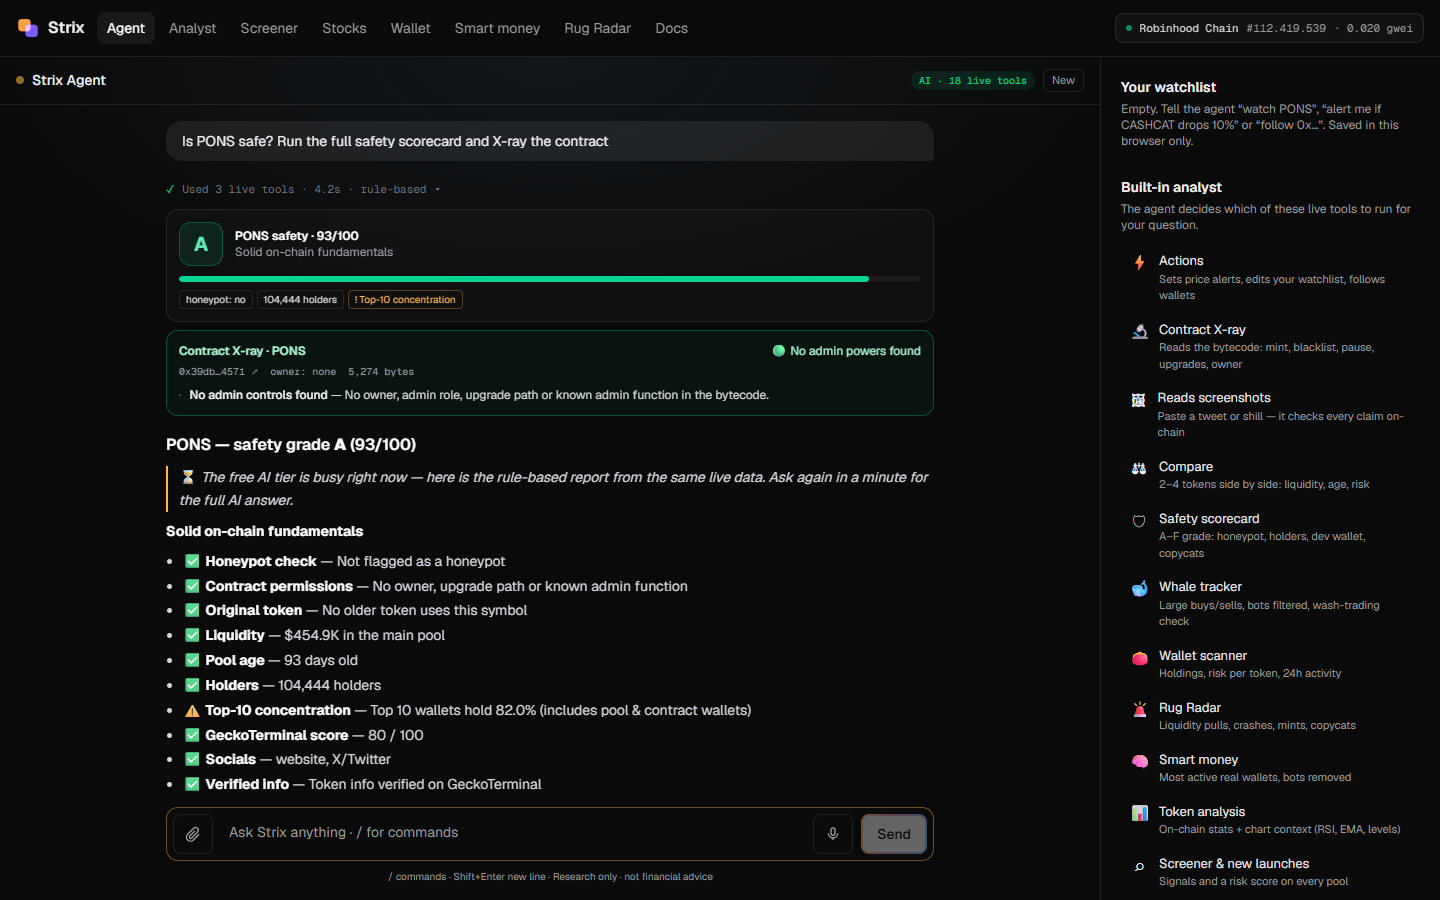
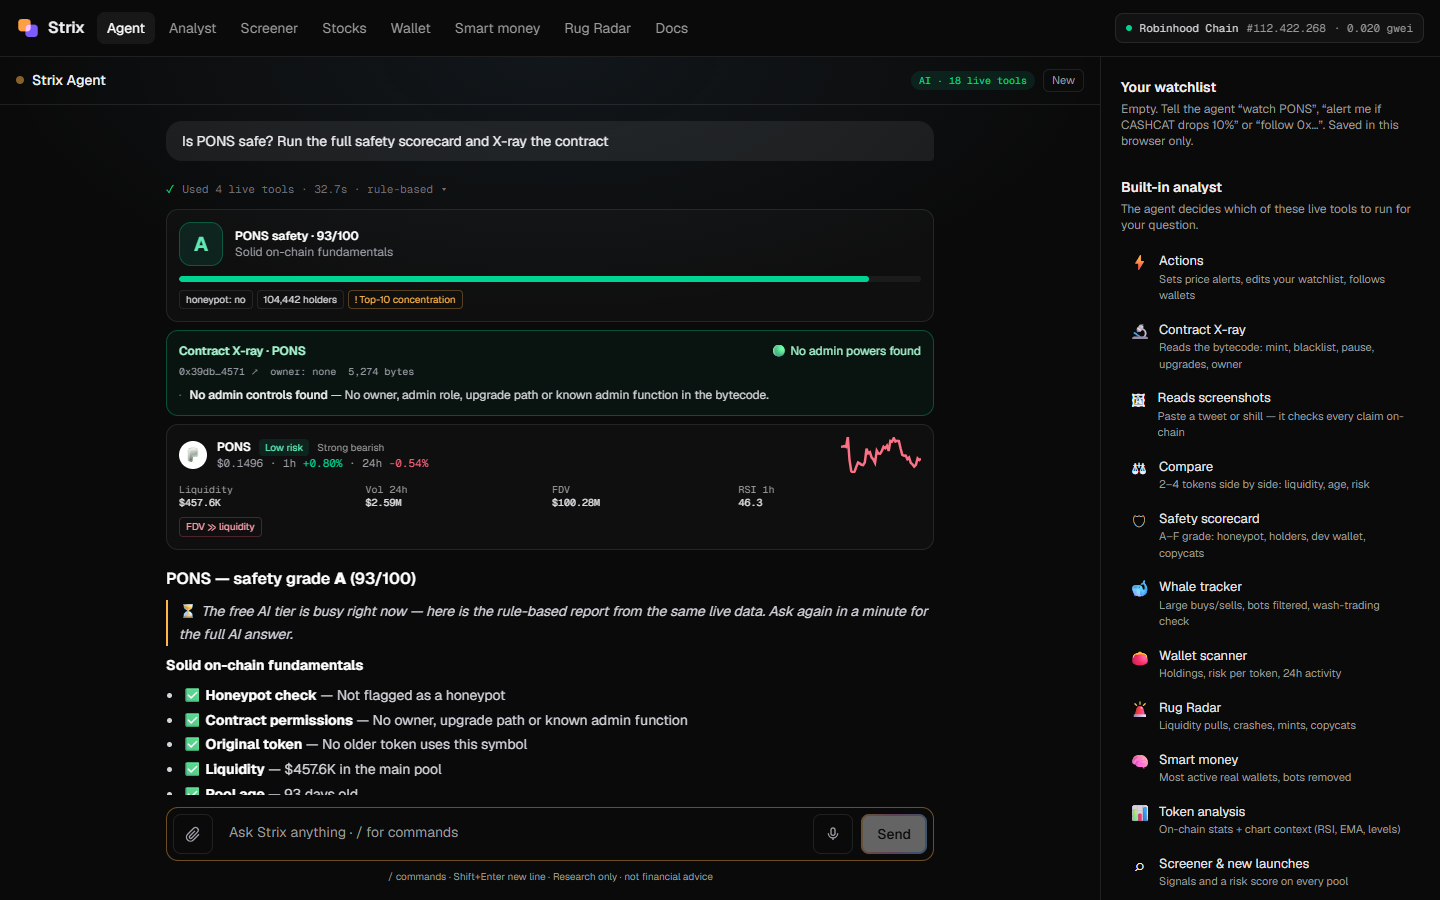
Fix AI failover to Gemini and the rule-based report
- Gemini rejected conversations where an earlier tool call came from
  another model (no thought signature), so the backup AI never worked
  after Groq failed mid-answer. Those calls now carry Google's documented
  placeholder signature.
- The "switching provider" step now says why (rate limited, access
  denied, invalid key, timeout).
- Rule-based token report crashed reading macd.hist; it now uses the
  tool's macdHist field.

Changed region(s): [[0.0938, 0.4667, 0.6562, 0.9022], [0.2188, 0.1867, 0.2812, 0.2178]]

diff --git a/lib/agent.ts b/lib/agent.ts
@@ -621,7 +621,7 @@ const compact = (data: unknown) =>
  * Try each provider in order. A rate-limited primary hands over to the backup immediately
  * (no waiting); only the last provider waits out a short 429 before giving up.
  */
-async function chatAny(providers: LLM[], messages: Msg[], onWait: (s: number) => void, onSwitch: (to: string) => void, onDelta: (t: string) => void) {
+async function chatAny(providers: LLM[], messages: Msg[], onWait: (s: number) => void, onSwitch: (to: string, why: string) => void, onDelta: (t: string) => void) {
   let lastErr: Error | null = null;
   for (let i = 0; i < providers.length; i++) {
     const isLast = i === providers.length - 1;
@@ -629,13 +629,36 @@ async function chatAny(providers: LLM[], messages: Msg[], onWait: (s: number) =>
       return { ...(await chat(providers[i], messages, isLast ? onWait : null, onDelta)), model: providers[i].name };
     } catch (e) {
       lastErr = e as Error;
-      if (!isLast) onSwitch(providers[i + 1].name);
+      if (!isLast) onSwitch(providers[i + 1].name, reason(lastErr));
     }
   }
   throw lastErr ?? new Error("No AI provider configured");
 }
 
+/** Short human reason for a provider failure, e.g. "rate limited", "access denied (403)". */
+function reason(e: Error | null) {
+  const m = e?.message ?? "";
+  const code = m.match(/LLM (\d{3})/)?.[1];
+  if (code === "429") return "rate limited";
+  if (code === "403") return "access denied (403)";
+  if (code === "401") return "invalid key (401)";
+  if (code && code >= "500") return `provider error (${code})`;
+  if (/timeout|aborted/i.test(m)) return "timed out";
+  return code ? `error ${code}` : "unavailable";
+}
+
+const isGemini = (cfg: LLM) => cfg.base.includes("generativelanguage.googleapis.com");
+/** Tool calls produced by another model have no Gemini thought signature; Gemini accepts this documented placeholder for them. */
+function forGemini(messages: Msg[]): Msg[] {
+  return messages.map((m) =>
+    m.role === "assistant" && m.tool_calls?.length
+      ? { ...m, tool_calls: m.tool_calls.map((tc) => (tc.extra_content ? tc : { ...tc, extra_content: { google: { thought_signature: "skip_thought_signature_validator" } } })) }
+      : m
+  );
+}
+
 async function chat(cfg: LLM, messages: Msg[], onWait: ((s: number) => void) | null, onDelta: (t: string) => void) {
+  if (isGemini(cfg)) messages = forGemini(messages);
   for (let attempt = 0; ; attempt++) {
     const res = await fetch(`${cfg.base}/chat/completions`, {
       method: "POST",
@@ -794,10 +817,10 @@ async function agentLoop(history: { role: "user" | "assistant"; content: string 
           emit({ t: "step", id, name: "wait", label: `AI is busy (free tier limit) — continuing in ${s}s` });
           setTimeout(() => emit({ t: "step_done", id, ok: true, summary: "resumed" }), s * 1000);
         },
-        (to) => {
+        (to, why) => {
           const id = `w${waitN++}`;
           emit({ t: "step", id, name: "switch", label: `Primary AI is busy — switching to ${to}` });
-          emit({ t: "step_done", id, ok: true, summary: `using ${to}` });
+          emit({ t: "step_done", id, ok: true, summary: `using ${to} · ${why}` });
           if (streamed) emit({ t: "reset" });
           streamed = false;
           // keep using the backup for the rest of this answer
@@ -967,7 +990,7 @@ ${NOTE}
 **Risk flags:** ${d.risk.flags.join(", ") || "none detected"}
 **Signals:** ${d.signals.join(", ") || "none"}
 
-${ta ? `**Technical (1h):** RSI ${fmt(ta.rsi, 1)} · MACD hist ${fmt(ta.macd.hist, 4)} · EMA20/50/200 ${fmt(ta.ema20)} / ${fmt(ta.ema50)} / ${fmt(ta.ema200)}
+${ta ? `**Technical (1h):** RSI ${fmt(ta.rsi, 1)} · MACD hist ${fmt((ta as unknown as { macdHist?: number }).macdHist ?? ta.macd?.hist, 4)} · EMA20/50/200 ${fmt(ta.ema20)} / ${fmt(ta.ema50)} / ${fmt(ta.ema200)}
 **Why:** ${ta.reasons.join("; ")}.
 
 **Support:** ${lv(ta.support)}
